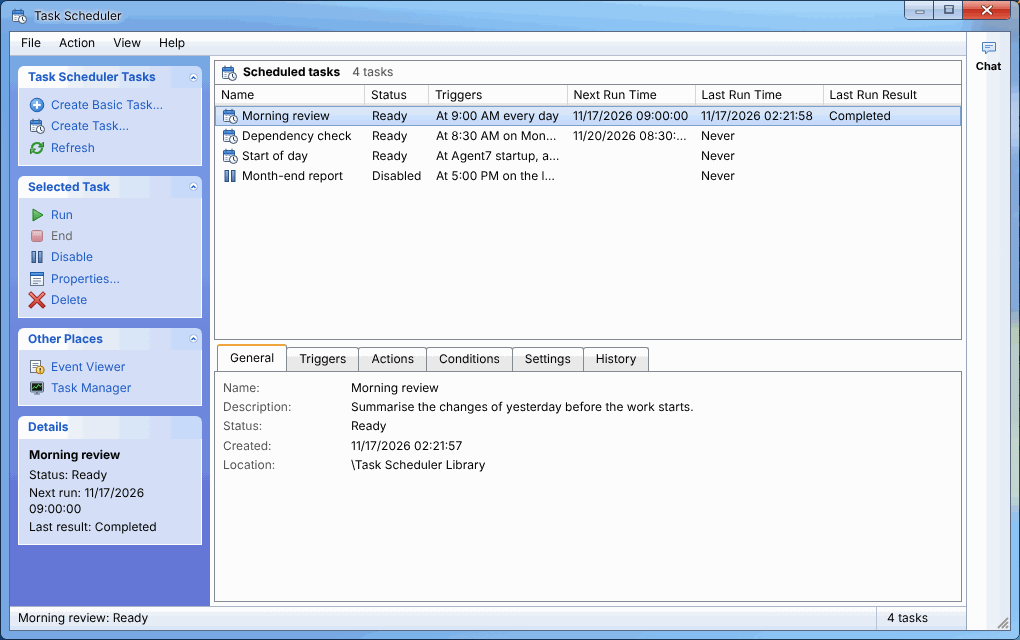
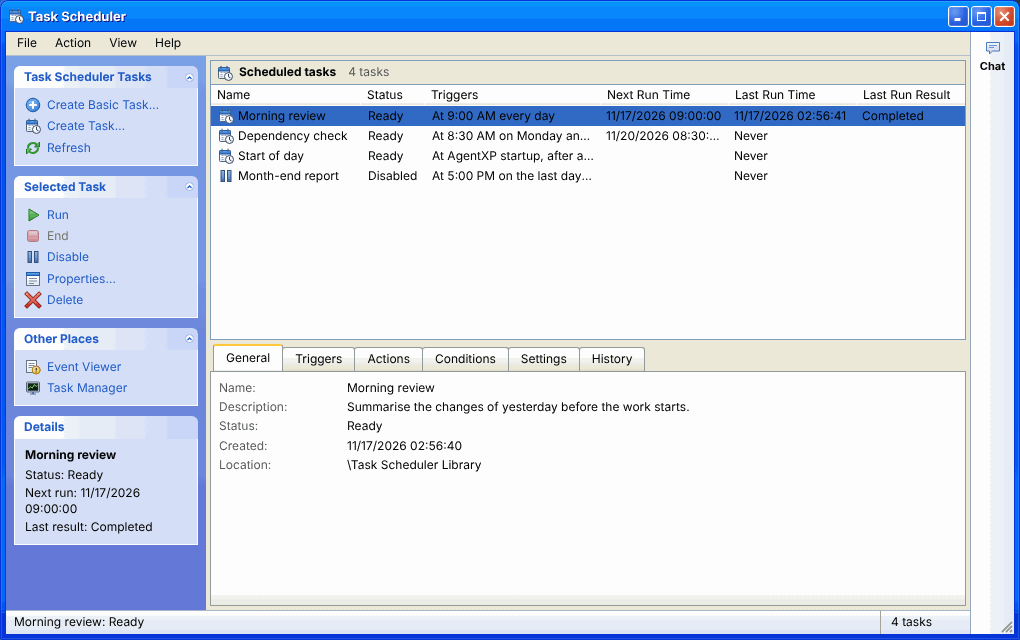
Task Scheduler: skills and tools screenshots, wider Triggers column, End that is not lost
Retake the Task Scheduler screenshots from the built app and add the Edit Action dialog with a profile-free choice of skills, a server and its tools (a small demo MCP server stands in for a real one). The Triggers column of the library gets the room that Last Run Result does not need. A run that is ended before its turn can be cancelled now repeats the cancel until the turn ends, which also removes a rare hang in the integration test.

Claude-Session: https://claude.ai/code/session_012yYSArq3eLvYTRcR8XWFCg

Changed region(s): [[0.0, 0.0, 1.0, 1.0]]

diff --git a/src/main/application/scheduler/AgentActionRunner.test.ts b/src/main/application/scheduler/AgentActionRunner.test.ts
@@ -1,4 +1,4 @@
-import { describe, expect, it } from 'vitest'
+import { describe, expect, it, vi } from 'vitest'
 import type { AgentDto, Id, SessionDto } from '@shared/models'
 import { newAgentAction, type AgentActionDto } from '@shared/scheduler'
 import type { McpServerDto, ProfileDto, SkillDto, TeamDto } from '@shared/teams'
@@ -24,7 +24,7 @@ interface Registry {
   teams?: TeamDto[]
 }
 
-function setup(options: { reason?: StopReason | Error; hold?: boolean; sessions?: SessionDto[]; registry?: Registry; models?: { id: string; name: string }[] } = {}) {
+function setup(options: { ignoreCancels?: number; reason?: StopReason | Error; hold?: boolean; sessions?: SessionDto[]; registry?: Registry; models?: { id: string; name: string }[] } = {}) {
   const calls: string[] = []
   const scopes: [number, SessionScope][] = []
   let chatRow: SessionDto | null = null
@@ -49,7 +49,8 @@ function setup(options: { reason?: StopReason | Error; hold?: boolean; sessions?
     },
     cancel: async (id) => {
       calls.push(`cancel ${id}`)
-      release('cancelled')
+      // A cancel that comes too early does nothing: the turn is not far enough along.
+      if (calls.filter((c) => c.startsWith('cancel')).length > (options.ignoreCancels ?? 0)) release('cancelled')
     }
   }
   const known = options.sessions ?? [session(7)]
@@ -136,6 +137,21 @@ describe('AgentActionRunner', () => {
     t.controller.abort()
     expect(await done).toMatchObject({ result: 'stopped', sessionId: 42 })
     expect(t.calls).toContain('cancel 42')
+  })
+
+  it('asks again to cancel while the turn goes on, so that End is not lost when it comes too early', async () => {
+    vi.useFakeTimers()
+    try {
+      const t = setup({ hold: true, ignoreCancels: 1 })
+      const done = t.runner.run(t.input(action()))
+      await vi.advanceTimersByTimeAsync(0)
+      t.controller.abort()
+      await vi.advanceTimersByTimeAsync(1200)
+      expect(await done).toMatchObject({ result: 'stopped', sessionId: 42 })
+      expect(t.calls.filter((c) => c === 'cancel 42').length).toBeGreaterThanOrEqual(2)
+    } finally {
+      vi.useRealTimers()
+    }
   })
 
   it('does nothing when it is aborted before it starts', async () => {

diff --git a/src/main/application/scheduler/AgentActionRunner.ts b/src/main/application/scheduler/AgentActionRunner.ts
@@ -27,6 +27,9 @@ export interface AgentActionRunnerDeps {
   scopes: Pick<SessionScopeRepository, 'set'>
 }
 
+/** How often a cancel is repeated while a stopped run waits for its turn to end. */
+const CANCEL_RETRY_MS = 500
+
 const pad = (n: number): string => String(n).padStart(2, '0')
 
 /** `Nightly review - 11/17 09:00`: the title of a chat that a scheduled task starts, so the chat list shows where it came from. */
@@ -60,7 +63,13 @@ export class AgentActionRunner implements ActionRunner {
       if (typeof session === 'string') return failed(session)
       sessionId = session.id
       input.onSession(session.id)
-      const cancel = (): void => void this.deps.chats.cancel(session.id).catch(() => {})
+      // End can arrive before the turn is far enough along to be cancelled: ask again until the turn ends.
+      let again: ReturnType<typeof setInterval> | null = null
+      const ask = (): void => void this.deps.chats.cancel(session.id).catch(() => {})
+      const cancel = (): void => {
+        ask()
+        again ??= setInterval(ask, CANCEL_RETRY_MS)
+      }
       if (signal.aborted) return stopped(sessionId)
       signal.addEventListener('abort', cancel, { once: true })
       try {
@@ -69,6 +78,7 @@ export class AgentActionRunner implements ActionRunner {
         return reason === 'end_turn' ? { result: 'success', message: 'The agent finished its turn.', sessionId } : failed(STOP_TEXT[reason], sessionId)
       } finally {
         signal.removeEventListener('abort', cancel)
+        if (again) clearInterval(again)
       }
     } catch (error) {
       return signal.aborted ? stopped(sessionId) : failed(messageOf(error), sessionId)

diff --git a/src/main/compose.scheduler.integration.test.ts b/src/main/compose.scheduler.integration.test.ts
@@ -118,6 +118,7 @@ describe('Task Scheduler with the fake ACP agent', () => {
 
     await app.api.scheduler.run(task.id)
     const running = await waitFor(async () => (await app.api.scheduler.history(task.id)).find((r) => r.sessionId !== null), 'the chat of the run')
+    await waitFor(async () => (await app.api.sessions.transcript(running.sessionId!)).find((e) => e.kind === 'tool_call' && e.permission?.outcome === 'pending'), 'the permission request')
     const scope = db.prepare('SELECT instructions FROM session_scopes WHERE session_id = ?').get(running.sessionId!)
     expect(scope).toEqual({ instructions: '' })
     expect(db.prepare('SELECT skill_id FROM session_scope_skills WHERE session_id = ?').all(running.sessionId!)).toEqual([{ skill_id: skill.id }])

diff --git a/src/renderer/src/lib/apps/task-scheduler/taskModel.ts b/src/renderer/src/lib/apps/task-scheduler/taskModel.ts
@@ -65,7 +65,7 @@ export const LIBRARY_COLUMNS: ListColumn[] = [
   { key: 'triggers', header: 'Triggers', minWidth: 150 },
   { key: 'next', header: 'Next Run Time', width: 128 },
   { key: 'last', header: 'Last Run Time', width: 128 },
-  { key: 'result', header: 'Last Run Result', minWidth: 100 }
+  { key: 'result', header: 'Last Run Result', width: 108 }
 ]
 
 export const HISTORY_COLUMNS: ListColumn[] = [

diff --git a/manuals/task-scheduler.md b/manuals/task-scheduler.md
@@ -159,6 +159,8 @@ Select how the chat of a run gets its skills and tools:
 - **Use a team** – The agent runs as the first member of the team that you select. It gets the skills and the MCP servers of that member, the skills of the team, and the instructions of both. The other members do not take part.
 - **Choose skills and tools** – The agent gets only the skills and the MCP servers that you check. Under the lists, **Tools of the chosen servers** shows the tools that the last test of each server found. Clear a tool to hide it from the agent. If you did not test a server yet, the agent gets all of its tools. Test the server in Control Center to see its tools.
 
+![The Edit Action dialog box with Choose skills and tools selected, the skill pdf, the server GitHub, and two of its three tools checked](../docs/images/task-scheduler-action-tools.png)
+
 AgentXP keeps the choice with the action. The **Actions** tab, the **Actions** tab of the dialog box, and the last page of the wizard show it in the column **Skills and tools**.
 
 A choice applies to a new chat only. A chat that exists keeps the skills and the tools that it has. If you select **Send the prompt to this chat**, the choice is not available.
